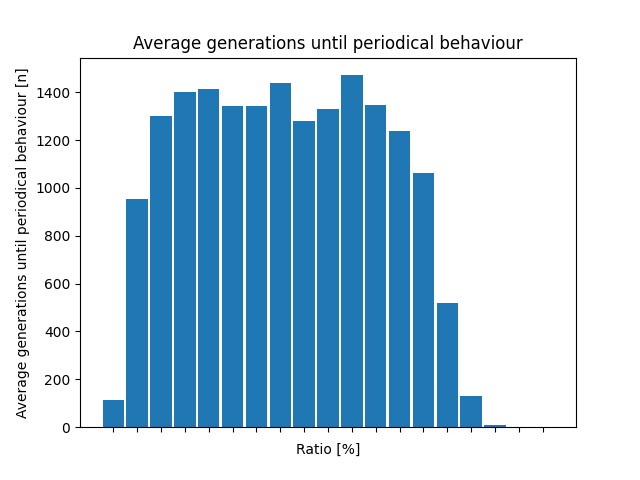
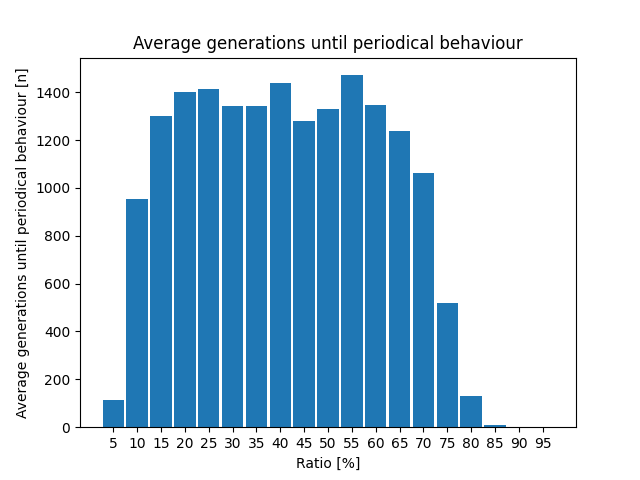
Finished

Changed region(s): [[0.1562, 0.9062, 0.875, 1.0]]

diff --git a/analysis.py b/analysis.py
@@ -30,15 +30,18 @@ for i in range(1, 20):
     repetitions.append(repetition)
 
     plt.figure()
+
     plt.bar([x + 1 for x in range(alive_length)], alive)
     plt.title(f"Alive cells Ratio: {i * 5}%")
     plt.xlabel("Generations [n]")
     plt.ylabel("Alive cells [n]")
-    plt.xticks([x])
+    plt.xticks([x * 10 - 5 for x in range(1, 11)])
 
-    plt.savefig(f"graphs/{i * 5}.alive.png")
+    plt.savefig(f"graphs/alive_cells-{i * 5}_ratio.png")
+    plt.close()
 
 plt.figure()
+
 plt.bar([x * 5 for x in range(1, 20)], [y[0] for y in repetitions], 4.5)
 plt.title("Average generations until periodical behaviour")
 plt.xlabel("Ratio [%]")
@@ -46,3 +49,15 @@ plt.ylabel("Average generations until periodical behaviour [n]")
 plt.xticks([x * 5 for x in range(1, 20)])
 
 plt.savefig("graphs/period_start-ratio.png")
+plt.close()
+
+plt.figure()
+
+plt.bar([x * 5 for x in range(1, 20)], [y[1] for y in repetitions], 4.5)
+plt.title("Average length of periodical behaviour")
+plt.xlabel("Ratio [%]")
+plt.ylabel("Average length of periodical behaviour [n]")
+plt.xticks([x * 5 for x in range(1, 20)])
+
+plt.savefig("graphs/period_length-ratio.png")
+plt.close()
